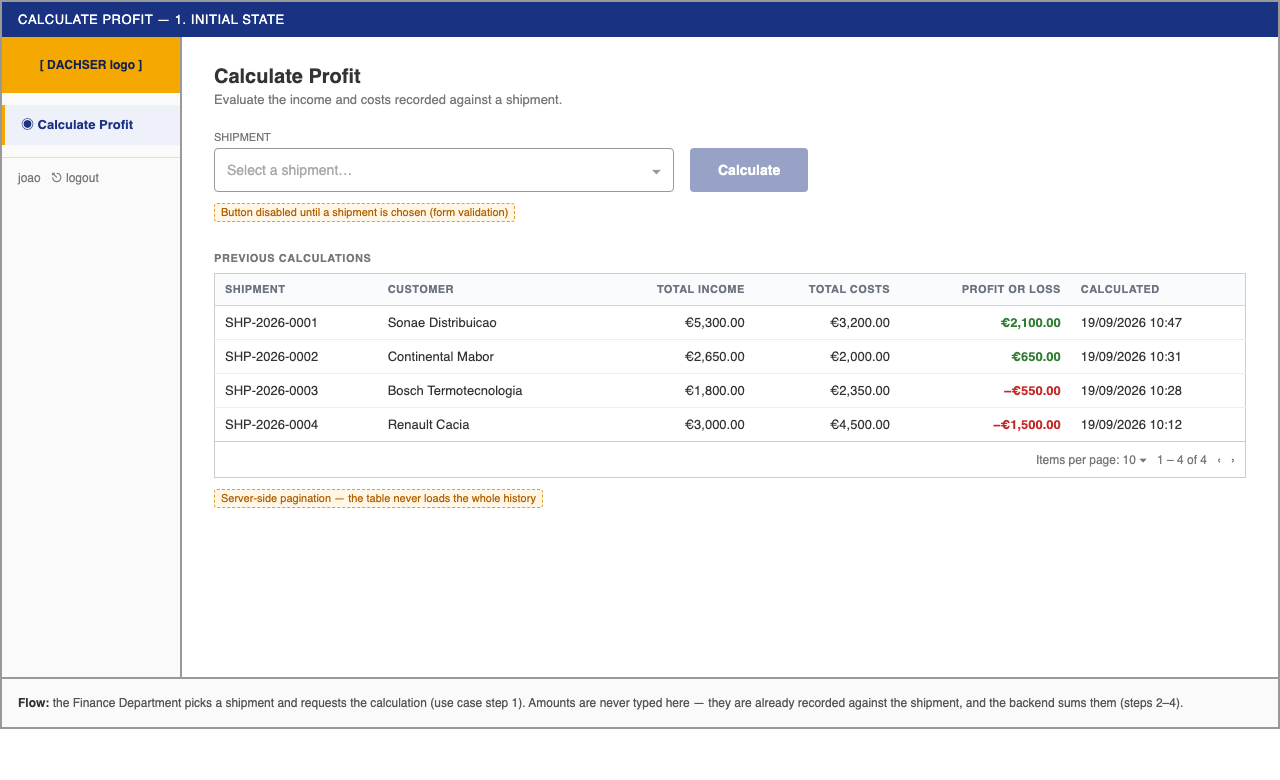
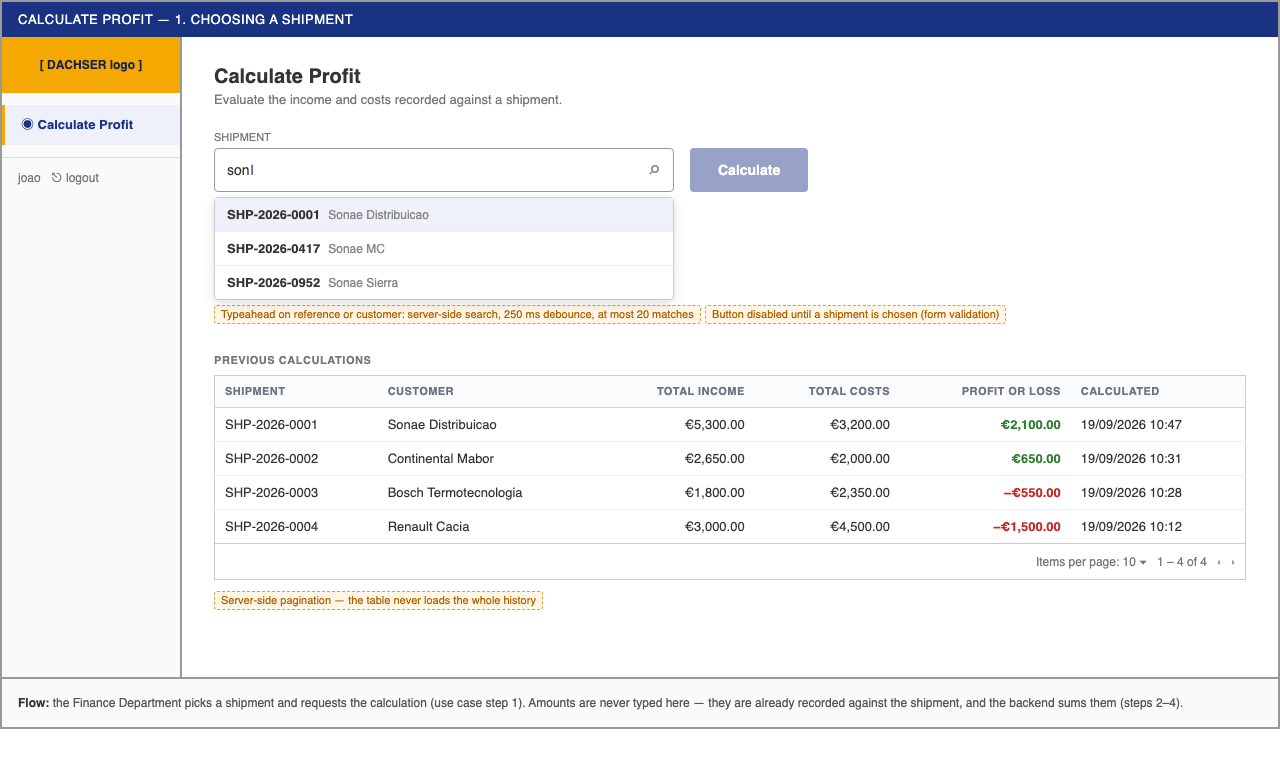
Draw the shipment field as the typeahead it is
The wireframes still showed a dropdown, but the screen has searched shipments as
you type ever since the list stopped being loaded whole. The field is now a
typeahead in all three: 01 shows a search with its suggestions open, and 02 and
03 show the reference the field keeps once a shipment is chosen.

03 also gains the retryable data retrieval error (503) the backend now returns
for alternative flow I. The README follows, and points at styles.scss, the file
that actually holds the design tokens.

diff --git a/wireframes/01-calculate-profit-initial.html b/wireframes/01-calculate-profit-initial.html
@@ -1,6 +1,6 @@
 <!doctype html><html><head><meta charset="utf-8"><link rel="stylesheet" href="_style.css"></head><body>
 <div class="frame">
-  <div class="caption">Calculate Profit — 1. Initial state</div>
+  <div class="caption">Calculate Profit — 1. Choosing a shipment</div>
   <div class="shell">
     <div class="sidebar">
       <div class="logo">[ DACHSER logo ]</div>
@@ -13,11 +13,16 @@
       <div class="row">
         <div class="field">
           <div class="label">SHIPMENT</div>
-          <div class="input"><span style="color:#aaa">Select a shipment…</span><span class="chev">▾</span></div>
+          <div class="input"><span class="typed">son</span><span class="icon">⌕</span></div>
+          <div class="suggest">
+            <div><b>SHP-2026-0001</b><span class="cust">Sonae Distribuicao</span></div>
+            <div><b>SHP-2026-0417</b><span class="cust">Sonae MC</span></div>
+            <div><b>SHP-2026-0952</b><span class="cust">Sonae Sierra</span></div>
+          </div>
         </div>
         <div style="padding-top:17px"><div class="btn" style="opacity:.45">Calculate</div></div>
       </div>
-      <div style="margin-top:10px"><span class="annot">Button disabled until a shipment is chosen (form validation)</span></div>
+      <div style="margin-top:112px"><span class="annot">Typeahead on reference or customer: server-side search, 250 ms debounce, at most 20 matches</span> <span class="annot">Button disabled until a shipment is chosen (form validation)</span></div>
       <h2>Previous calculations</h2>
       <table>
         <tr><th>Shipment</th><th>Customer</th><th class="num">Total Income</th><th class="num">Total Costs</th><th class="num">Profit or Loss</th><th>Calculated</th></tr>

diff --git a/wireframes/03-calculate-profit-loss-and-error.html b/wireframes/03-calculate-profit-loss-and-error.html
@@ -13,7 +13,7 @@
       <div class="row">
         <div class="field">
           <div class="label">SHIPMENT</div>
-          <div class="input"><span>SHP-2026-0004 — Renault Cacia</span><span class="chev">▾</span></div>
+          <div class="input"><span>SHP-2026-0004</span><span class="icon">⌕</span></div>
         </div>
         <div style="padding-top:17px"><div class="btn">Calculate</div></div>
       </div>
@@ -45,6 +45,8 @@
       <h2>Alternative flow I — data retrieval error</h2>
       <div class="alert">⚠ No shipment found with reference SHP-2026-9999</div>
       <div style="margin-top:8px"><span class="annot">Backend logs the failure and returns 404; the user can retry or fix the data</span></div>
+      <div class="alert" style="margin-top:12px">⚠ Could not retrieve the income and cost data. Please retry the request.</div>
+      <div style="margin-top:8px"><span class="annot">Database unavailable: backend logs the cause and returns 503; the same Calculate click retries</span></div>
       <div class="alert" style="margin-top:12px">⚠ Could not reach the server. Check that the backend is running.</div>
       <div style="margin-top:8px"><span class="annot">HTTP status 0 gets its own message instead of a blank error</span></div>
     </div>

diff --git a/wireframes/_style.css b/wireframes/_style.css
@@ -61,3 +61,14 @@ th.num, td.num { text-align: right; font-variant-numeric: tabular-nums; }
          padding: 12px 14px; font-size: 13px; margin-top: 18px; }
 .notes { padding: 14px 16px; background: #fafafa; border-top: 2px solid #999; font-size: 12px; color: #555; line-height: 1.7; }
 .notes b { color: #333; }
+
+/* Shipment typeahead: a server-side search, not a select over a list held in the browser. */
+.field { position: relative; }
+.input .icon { color: #999; font-size: 22px; line-height: 1; }
+.input .typed::after { content: '|'; color: #1a3282; margin-left: 1px; }
+.suggest { position: absolute; left: 0; right: 0; top: 66px; background: #fff; z-index: 2;
+           border: 1px solid #ccc; border-radius: 4px; box-shadow: 0 4px 12px rgba(0,0,0,.12); }
+.suggest div { padding: 9px 12px; font-size: 13px; border-bottom: 1px solid #eee; }
+.suggest div:last-child { border-bottom: 0; }
+.suggest div:first-child { background: #eef1fa; }
+.suggest .cust { color: #888; margin-left: 8px; }

diff --git a/wireframes/02-calculate-profit-result.html b/wireframes/02-calculate-profit-result.html
@@ -13,7 +13,7 @@
       <div class="row">
         <div class="field">
           <div class="label">SHIPMENT</div>
-          <div class="input"><span>SHP-2026-0001 — Sonae Distribuicao</span><span class="chev">▾</span></div>
+          <div class="input"><span>SHP-2026-0001</span><span class="icon">⌕</span></div>
         </div>
         <div style="padding-top:17px"><div class="btn">Calculate</div></div>
       </div>

diff --git a/README.md b/README.md
@@ -11,7 +11,7 @@ Boot backend (Example 1) is at https://github.com/JottaGomes/logistic-be.
 Angular 17 (standalone components), Angular Material themed in SCSS, Jasmine +
 Karma for tests.
 
-No CSS framework. Design tokens live in `src/styles.css` and everything else is
+No CSS framework. Design tokens live in `src/styles.scss` and everything else is
 component-scoped — Bootstrap was pulled in for eight utility classes and a grid
 the layout no longer uses, and having two design systems side by side was the
 main reason the spacing and typography never quite agreed.
@@ -58,9 +58,9 @@ implementation:
 
 | File | State |
 |---|---|
-| `01-calculate-profit-initial.png` | nothing selected, history listed |
+| `01-calculate-profit-initial.png` | searching the shipment typeahead, history listed |
 | `02-calculate-profit-result.png` | a profit, with its income and cost breakdown |
-| `03-calculate-profit-loss-and-error.png` | a loss, and both error states |
+| `03-calculate-profit-loss-and-error.png` | a loss, and the three error states (not found, data retrieval failure, server unreachable) |
 
 The `.html` sources are alongside them. They show the intended structure and
 states; the styling is indicative rather than pixel-accurate.
@@ -93,7 +93,7 @@ and yellow the accent, as on dachser.com, which is why primary buttons are navy.
 numbers are right-aligned with tabular figures, and profit and loss are coloured.
 
 **Scale.** Neither screen holds the shipment list. The backend hands out a
-bounded, searchable slice, so both the dropdown and the chip list are typeaheads
+bounded, searchable slice, so both the shipment field and the chip list are typeaheads
 that query as you type — at the 10,000 shipments a day the requirements ask for,
 the full list is neither sendable nor selectable.
 
